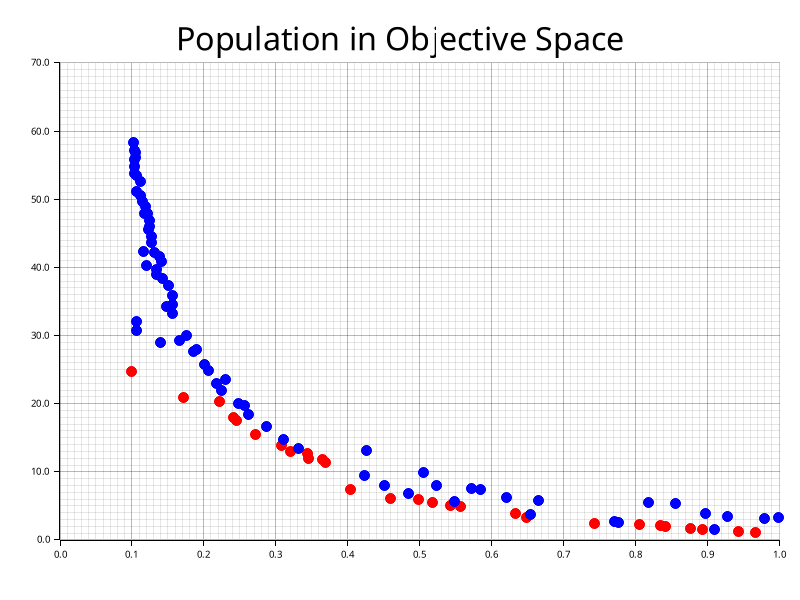
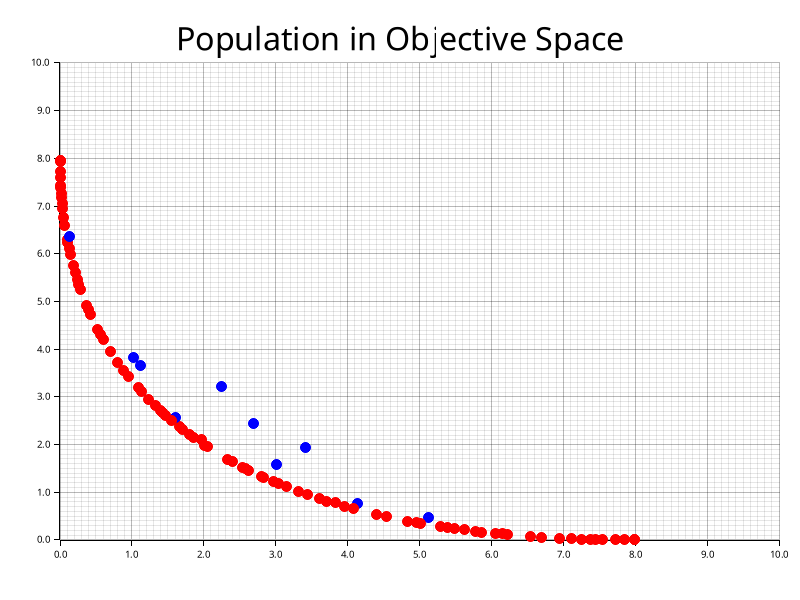
A function to plot pareto set was added

Changed region(s): [[0.0312, 0.12, 1.0, 0.93], [0.9688, 0.9, 1.0, 0.93]]

diff --git a/nsga-2/src/main.rs b/nsga-2/src/main.rs
@@ -2,56 +2,51 @@ use rand::Rng;
 use plotters::prelude::*;
 
 fn main() -> Result<(), Box<dyn std::error::Error>> {
-    // Run NSGA-II: population size 100, for 50 generations.
-    let final_population = nsga_2(100, 2500);
-    
-    // Evaluate final population: get Pareto fronts and ranks.
+    let final_population = nsga_2(100, 100000);
     let (fronts, ranks) = non_dominated_sort(final_population.clone());
-    
     println!("Final Pareto Fronts:");
     for (i, front) in fronts.iter().enumerate() {
         println!("Front {}: {:?}", i + 1, front);
     }
-    
-    // Plot the final population, highlighting individuals with rank 0 in red.
     plot_population(&final_population, &ranks)?;
+    
+    // Extract the Pareto set (non-dominated individuals in decision space)
+    let pareto_set: Vec<Vec<f64>> = final_population
+        .iter()
+        .enumerate()
+        .filter(|(i, _)| ranks[*i] == 0)
+        .map(|(_, individual)| individual.clone())
+        .collect();
+    plot_pareto_set(&pareto_set)?;
     
     Ok(())
 }
 
-// --- Objective functions ---
-// Here, we try to minimize both f1 and f2.
-fn function_1(x: f64) -> f64 {
-    x 
+fn function_1(x: f64, y: f64) -> f64 {
+    x * x + y * y
 }
 
 fn function_2(x: f64, y: f64) -> f64 {
-    (1.0 + y) / x
+    (x - 2.0) * (x - 2.0) + (y - 2.0) * (y - 2.0)
 }
 
-// --- Population initialization ---
 fn generate_population(size: usize) -> Vec<Vec<f64>> {
     let mut population = Vec::new();
     let mut rng = rand::rng();
     for _ in 0..size {
         let individual = vec![
-            rng.random_range(0.1..1.0), // x value
-            rng.random_range(0.0..5.0)  // y value
+            rng.random_range(0.0..2.0),
+            rng.random_range(0.0..2.0)
         ];
         population.push(individual);
     }
     population
 }
 
-// --- Variation operators ---
 fn random_mutation(individual: &mut Vec<f64>) {
     let mut rng = rand::rng();
     let index = rng.random_range(0..individual.len());
-    if index == 0 {
-        individual[index] = rng.random_range(0.1..1.0);
-    } else {
-        individual[index] = rng.random_range(0.0..5.0);
-    }
+    individual[index] = rng.random_range(0.0..2.0);
 }
 
 fn arithmetic_crossover(parent_1: &Vec<f64>, parent_2: &Vec<f64>) -> (Vec<f64>, Vec<f64>) {
@@ -68,20 +63,15 @@ fn arithmetic_crossover(parent_1: &Vec<f64>, parent_2: &Vec<f64>) -> (Vec<f64>, 
     (child_1, child_2)
 }
 
-// --- Dominance and sorting ---
-/// Returns true if `individual_1` dominates `individual_2` (minimization).
 fn dominates(individual_1: &Vec<f64>, individual_2: &Vec<f64>) -> bool {
-    let f1_1 = function_1(individual_1[0]);
+    let f1_1 = function_1(individual_1[0], individual_1[1]);
     let f2_1 = function_2(individual_1[0], individual_1[1]);
-    let f1_2 = function_1(individual_2[0]);
+    let f1_2 = function_1(individual_2[0], individual_2[1]);
     let f2_2 = function_2(individual_2[0], individual_2[1]);
     
     (f1_1 <= f1_2 && f2_1 <= f2_2) && (f1_1 < f1_2 || f2_1 < f2_2)
 }
 
-/// Non-dominated sorting that returns a tuple:
-/// - A vector of fronts (each front is a Vec of individuals)
-/// - A vector `rank` where rank[i] is the front number for the i-th individual.
 fn non_dominated_sort(population: Vec<Vec<f64>>) -> (Vec<Vec<Vec<f64>>>, Vec<usize>) {
     let mut fronts: Vec<Vec<Vec<f64>>> = Vec::new();
     let n = population.len();
@@ -129,9 +119,6 @@ fn non_dominated_sort(population: Vec<Vec<f64>>) -> (Vec<Vec<Vec<f64>>>, Vec<usi
     (fronts, rank)
 }
 
-// --- Crowding distance ---
-/// Computes crowding distances for a given set of individuals (a front),
-/// given their fitness values (each fitness is a Vec of objective values).
 fn crowding_distance(population: &Vec<Vec<f64>>, fitness: &Vec<Vec<f64>>) -> Vec<f64> {
     let n = population.len();
     if n == 0 {
@@ -159,12 +146,10 @@ fn crowding_distance(population: &Vec<Vec<f64>>, fitness: &Vec<Vec<f64>>) -> Vec
     distances
 }
 
-/// Computes crowding distances for the entire population, front by front.
 fn compute_crowding_distances(population: &Vec<Vec<f64>>, ranks: &Vec<usize>) -> Vec<f64> {
-    // Compute fitness values for each individual.
     let fitness: Vec<Vec<f64>> = population
         .iter()
-        .map(|ind| vec![function_1(ind[0]), function_2(ind[0], ind[1])])
+        .map(|ind| vec![function_1(ind[0], ind[1]), function_2(ind[0], ind[1])])
         .collect();
     let mut distances = vec![0.0; population.len()];
     let max_rank = *ranks.iter().max().unwrap();
@@ -192,9 +177,6 @@ fn compute_crowding_distances(population: &Vec<Vec<f64>>, ranks: &Vec<usize>) ->
     distances
 }
 
-// --- Tournament selection ---
-/// Selects one individual based on binary tournament using rank (lower is better)
-/// and, in case of tie, crowding distance (higher is better).
 fn tournament_selection(
     population: &Vec<Vec<f64>>, 
     ranks: &Vec<usize>, 
@@ -216,16 +198,12 @@ fn tournament_selection(
     }
 }
 
-// --- NSGA-II Main Loop ---
 fn nsga_2(pop_size: usize, generations: usize) -> Vec<Vec<f64>> {
     let mut population = generate_population(pop_size);
     let mut rng = rand::rng();
     for gen in 0..generations {
-        // Evaluate current population: sort and assign crowding distances.
         let (_fronts, ranks) = non_dominated_sort(population.clone());
         let crowding = compute_crowding_distances(&population, &ranks);
-        
-        // Create offspring via tournament selection, crossover, and mutation.
         let mut offspring = Vec::new();
         while offspring.len() < pop_size {
             let parent1 = tournament_selection(&population, &ranks, &crowding);
@@ -243,24 +221,20 @@ fn nsga_2(pop_size: usize, generations: usize) -> Vec<Vec<f64>> {
             }
         }
         
-        // Combine parent and offspring populations.
         let mut combined = population.clone();
         combined.extend(offspring);
         
-        // Perform non-dominated sorting on the combined population.
         let (combined_fronts, _) = non_dominated_sort(combined.clone());
         let mut new_population = Vec::new();
         let mut i = 0;
-        // Fill the new population front by front.
         while new_population.len() < pop_size {
             let front = &combined_fronts[i];
             if new_population.len() + front.len() <= pop_size {
                 new_population.extend(front.clone());
             } else {
-                // If the front must be partially included, sort it by crowding distance (descending)
                 let front_fitness: Vec<Vec<f64>> = front
                     .iter()
-                    .map(|ind| vec![function_1(ind[0]), function_2(ind[0], ind[1])])
+                    .map(|ind| vec![function_1(ind[0], ind[1]), function_2(ind[0], ind[1])])
                     .collect();
                 let cd = crowding_distance(front, &front_fitness);
                 let mut front_with_cd: Vec<(Vec<f64>, f64)> = front.iter().cloned().zip(cd.into_iter()).collect();
@@ -280,9 +254,6 @@ fn nsga_2(pop_size: usize, generations: usize) -> Vec<Vec<f64>> {
     population
 }
 
-// --- Plotting ---
-/// Plots all individuals in the objective space (x-axis: function_1, y-axis: function_2)
-/// and highlights those with rank 0 (first Pareto front) in red.
 fn plot_population(
     population: &Vec<Vec<f64>>,
     ranks: &Vec<usize>,
@@ -295,13 +266,14 @@ fn plot_population(
         .margin(20)
         .x_label_area_size(40)
         .y_label_area_size(40)
-        .build_cartesian_2d(0.0..1.0, 0.0..70.0)?;
+        .build_cartesian_2d(0.0..10.0, 0.0..10.0)?;
     
     chart.configure_mesh().draw()?;
     
     for (i, individual) in population.iter().enumerate() {
-        let x_val = function_1(individual[0]);
+        let x_val = function_1(individual[0], individual[1]);
         let y_val = function_2(individual[0], individual[1]);
+        // Highlight Pareto front (rank 0) points in red; others in blue.
         let point_color = if ranks[i] == 0 { &RED } else { &BLUE };
         chart.draw_series(std::iter::once(Circle::new(
             (x_val, y_val),
@@ -311,6 +283,36 @@ fn plot_population(
     }
     
     root.present()?;
-    println!("Plot saved to population_plot.png");
+    println!("Objective space plot saved to population_plot.png");
+    Ok(())
+}
+
+// New function to plot the Pareto set in decision space
+fn plot_pareto_set(
+    pareto_set: &Vec<Vec<f64>>,
+) -> Result<(), Box<dyn std::error::Error>> {
+    let root = BitMapBackend::new("pareto_set.png", (800, 600)).into_drawing_area();
+    root.fill(&WHITE)?;
+    
+    let mut chart = ChartBuilder::on(&root)
+        .caption("Pareto Set in Decision Space", ("sans-serif", 40))
+        .margin(20)
+        .x_label_area_size(40)
+        .y_label_area_size(40)
+        .build_cartesian_2d(0.0..2.0, 0.0..2.0)?;
+    
+    chart.configure_mesh().draw()?;
+    
+    for individual in pareto_set {
+        // Each individual is represented by [x, y] in decision space
+        chart.draw_series(std::iter::once(Circle::new(
+            (individual[0], individual[1]),
+            5,
+            GREEN.filled(),
+        )))?;
+    }
+    
+    root.present()?;
+    println!("Pareto set plot saved to pareto_set.png");
     Ok(())
 }
